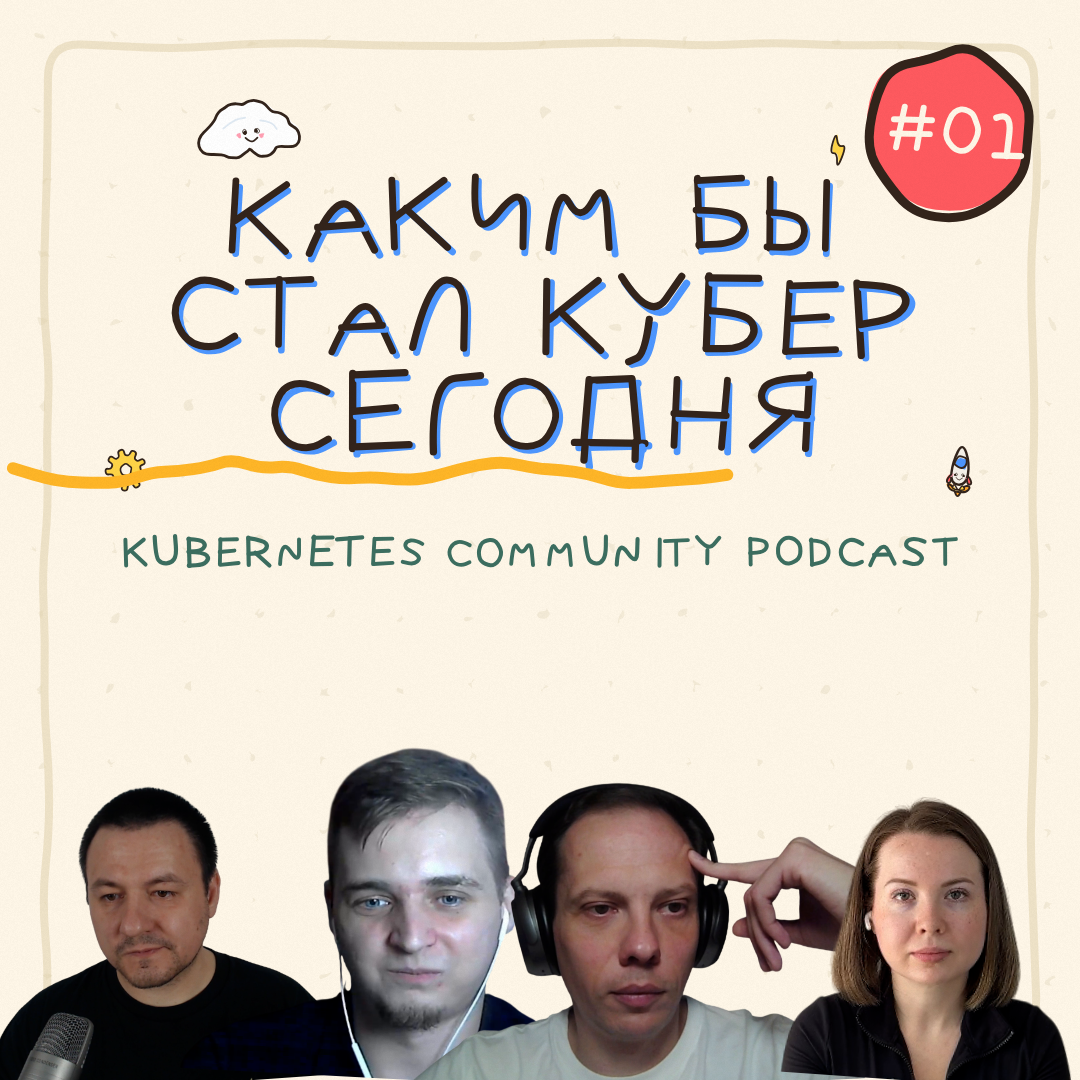
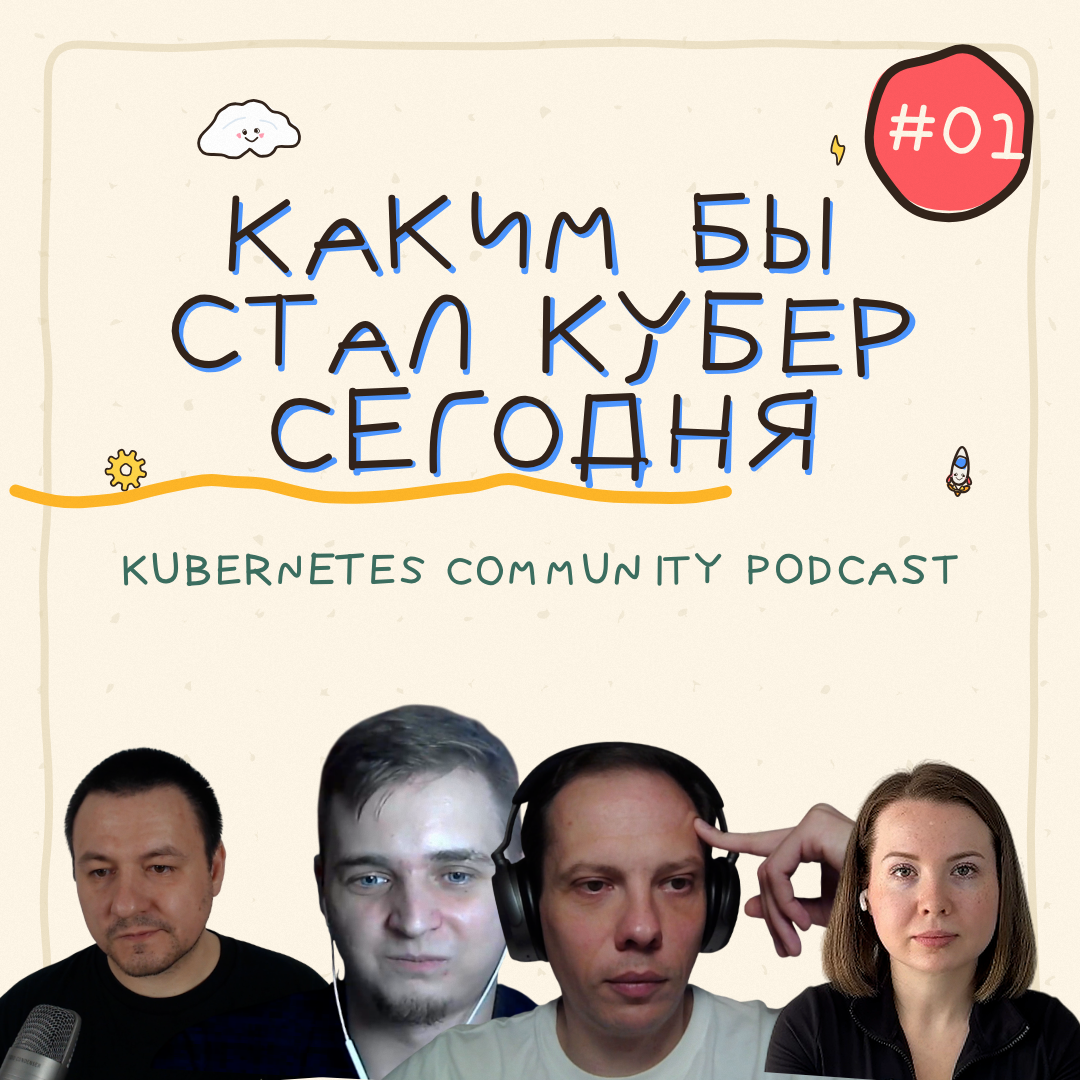
feat(arts): add the podcast-platform cover for episode 1 (#14)
Apple, Spotify and the rest want a square between 1400 and 3000 pixels,
which none of the existing episode art satisfied. Adds a 3000x3000 render
and the format that produces it.

- `episode_podcast_3000` renders the square episode layout at the maximum
  size the directories accept. Shipped as JPEG: under half a megabyte
  against ten for the PNG, and indistinguishable on this flat artwork
  (mean deviation under 2/255, no ringing on the lettering).
- Yulia's cutout is resampled once with lanczos and a light sharpen. She
  sat furthest from the camera and occupies only 336x501 of her 1280x720
  recording, so there is no more detail to recover; doing the enlargement
  once, well, beats letting the canvas stretch her threefold at render.
- The square layout closes the gap that opened between the wordmark and
  the hosts: text drops slightly, hosts grow. Visible at thumbnail size,
  which is how these covers are actually seen.

Changed region(s): [[0.0, 0.6417, 1.0, 1.0], [0.0, 0.1528, 0.8861, 0.55], [0.7639, 0.1528, 0.7944, 0.1833]]

diff --git a/arts/podcast-kit/src/pack.html b/arts/podcast-kit/src/pack.html
@@ -350,16 +350,16 @@ epsquare(w,h,o){                   /* 1080x1080 обложка выпуска п
   let cap=capMax;
   while(cap>capMin && lines.some(L=>textW(L,cap,cap*0.17)>maxW)) cap-=2;
   const lead=cap*1.42;
-  lines.forEach((L,i)=>drawText(L,w/2,250+i*lead,cap,
+  lines.forEach((L,i)=>drawText(L,w/2,268+i*lead,cap,
     {seed:400+i*100,lw:Math.max(5,Math.round(cap/9.8)),shadow:'#4D96FF',track:cap*0.17}));
-  const under=250+(lines.length-1)*lead+cap*0.34;
+  const under=268+(lines.length-1)*lead+cap*0.34;
   squiggle(w/2-170,under,w/2+170,under+26,'#FFB627',12);
   drawText('KUBERNETES COMMUNITY PODCAST',w/2,under+92,26,{seed:600,lw:4,ink:'#3C6E60',track:6});
   const HP=(o&&o.hostpos)?o.hostpos:[
-    {k:'timur', x:168, y:1086, h:300, r:-4},
-    {k:'sergey',x:412, y:1080, h:332, r:3},
-    {k:'artem', x:676, y:1088, h:308, r:-3},
-    {k:'yulia', x:930, y:1082, h:284, r:4},
+    {k:'timur', x:166, y:1088, h:342, r:-4},
+    {k:'sergey',x:414, y:1082, h:378, r:3},
+    {k:'artem', x:680, y:1090, h:352, r:-3},
+    {k:'yulia', x:934, y:1084, h:324, r:4},
   ];
   HP.forEach(p=>host(p.k,p.x,p.y,p.h,p.r,p.flip));
   ctx.save();ctx.translate(952,132);ctx.rotate(0.08);

diff --git a/arts/podcast-kit/tools/render-images.js b/arts/podcast-kit/tools/render-images.js
@@ -36,6 +36,7 @@ const ASSETS = [
   { n: 'instagram_story_1080x1920', w: 1080, h: 1920, bw: 1080, bh: 1920, layout: 'story'  },
   { n: 'episode_cover_1280x720',    w: 1280, h:  720, bw: 1280, bh:  720, layout: 'epcover'},
   { n: 'episode_square_1080',       w: 1080, h: 1080, bw: 1080, bh: 1080, layout: 'epsquare'},
+  { n: 'episode_podcast_3000',      w: 3000, h: 3000, bw: 1080, bh: 1080, layout: 'epsquare'},
 ];
 
 const argv = process.argv.slice(2);

diff --git a/arts/episodes/README.md b/arts/episodes/README.md
@@ -4,20 +4,32 @@ One folder per episode, named by its number.
 
 | File | Where it goes |
 |---|---|
+| `podcast_cover_3000.jpg` | Apple Podcasts, Spotify, Yandex Music — any podcast host |
 | `youtube_cover_1280x720.png` | YouTube thumbnail |
 | `telegram_square_1080.png` | Telegram post and any square placement |
 
-Both are rendered by [`../podcast-kit`](../podcast-kit) — the layout, the lettering
-and the doodles are drawn in code; only the host cutouts are bitmaps.
+All three are rendered by [`../podcast-kit`](../podcast-kit) — the layout, the
+lettering and the doodles are drawn in code; only the host cutouts are bitmaps.
+
+## Podcast platforms
+
+Apple's rules, which the other directories follow: square, 1400×1400 minimum,
+3000×3000 maximum, RGB, JPEG or PNG. `podcast_cover_3000.jpg` is at the maximum
+and weighs under half a megabyte, so it clears the upload limits hosts impose.
+
+The PNG of the same image is ten megabytes and regenerable, so it is not kept here.
 
 ## Making the next one
 
 ```bash
 cd ../podcast-kit
-node tools/render-images.js episode_cover_1280x720 episode_square_1080 \
+node tools/render-images.js \
+  episode_podcast_3000 episode_cover_1280x720 episode_square_1080 \
   --ep 02 --lines "ТЕМА|ВЫПУСКА"
+ffmpeg -i out/images/episode_podcast_3000.png -qscale:v 3 -pix_fmt yuvj420p \
+  ../episodes/2/podcast_cover_3000.jpg
 ```
 
-Cap height is picked automatically so the line fits the free width, so a longer
-topic simply renders smaller rather than running into the artwork. Keep it to
-three or four short lines — the covers are read at thumbnail size.
+Cap height is picked automatically so the line fits the free width — a longer
+topic renders smaller rather than running into the artwork. Keep it to three or
+four short lines; these are read at thumbnail size.
